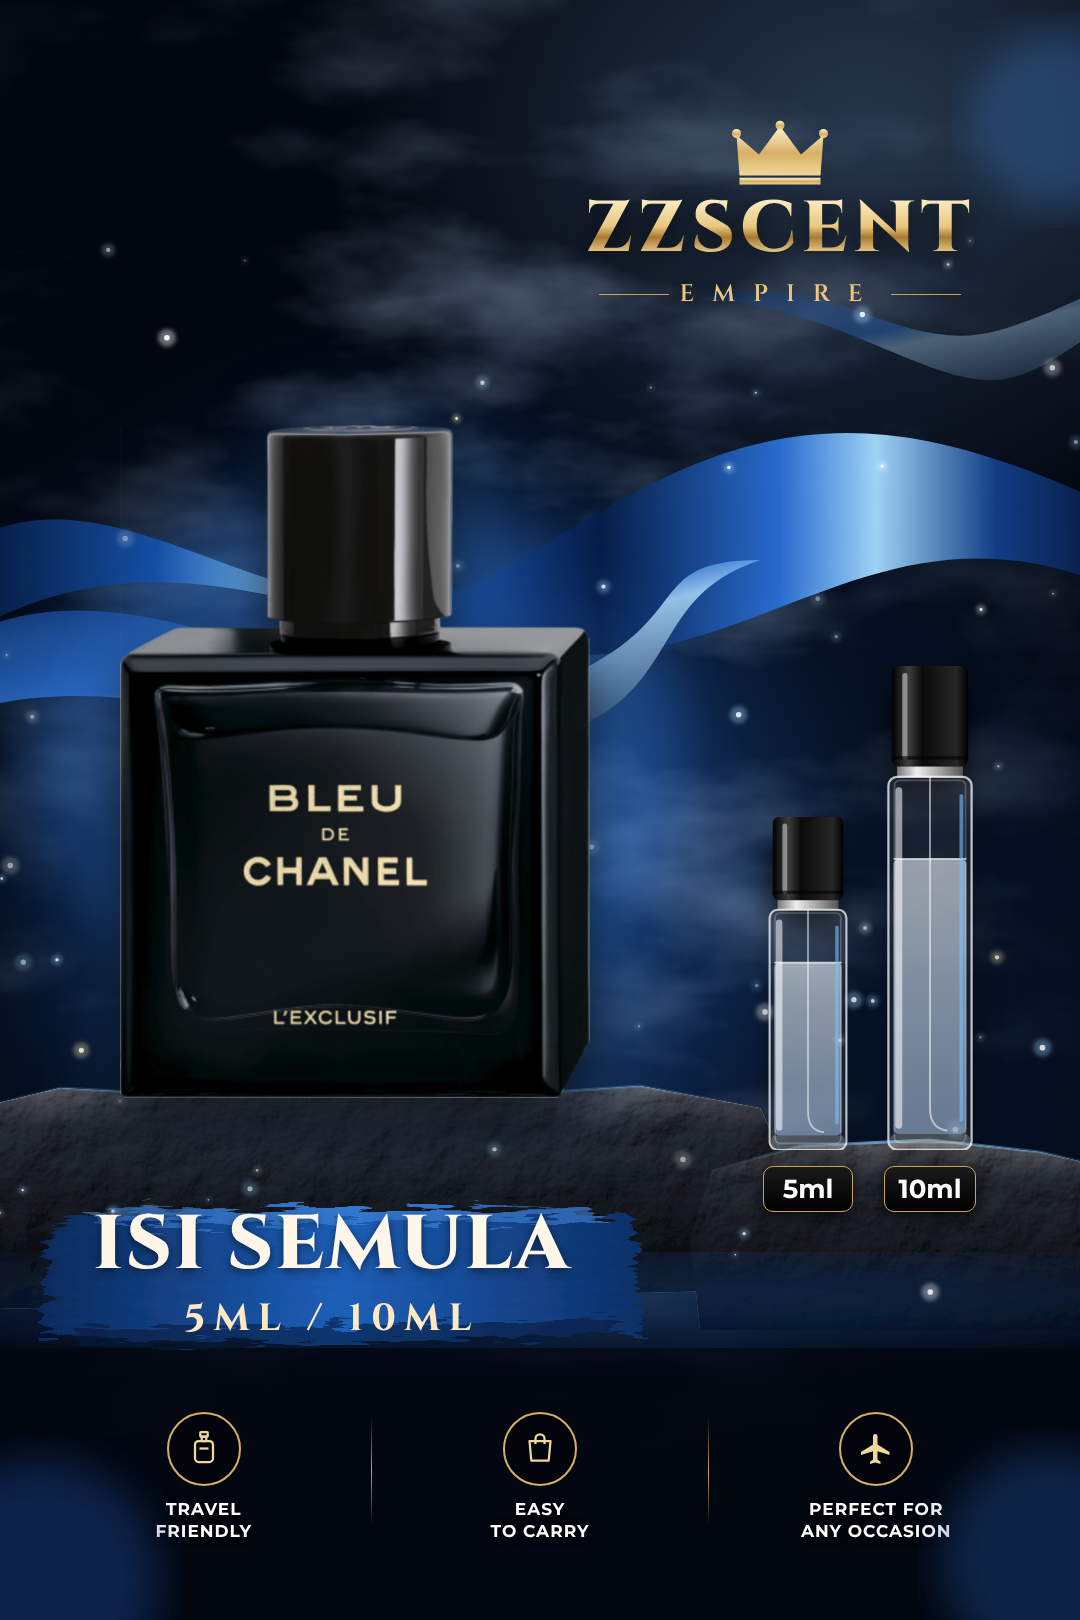
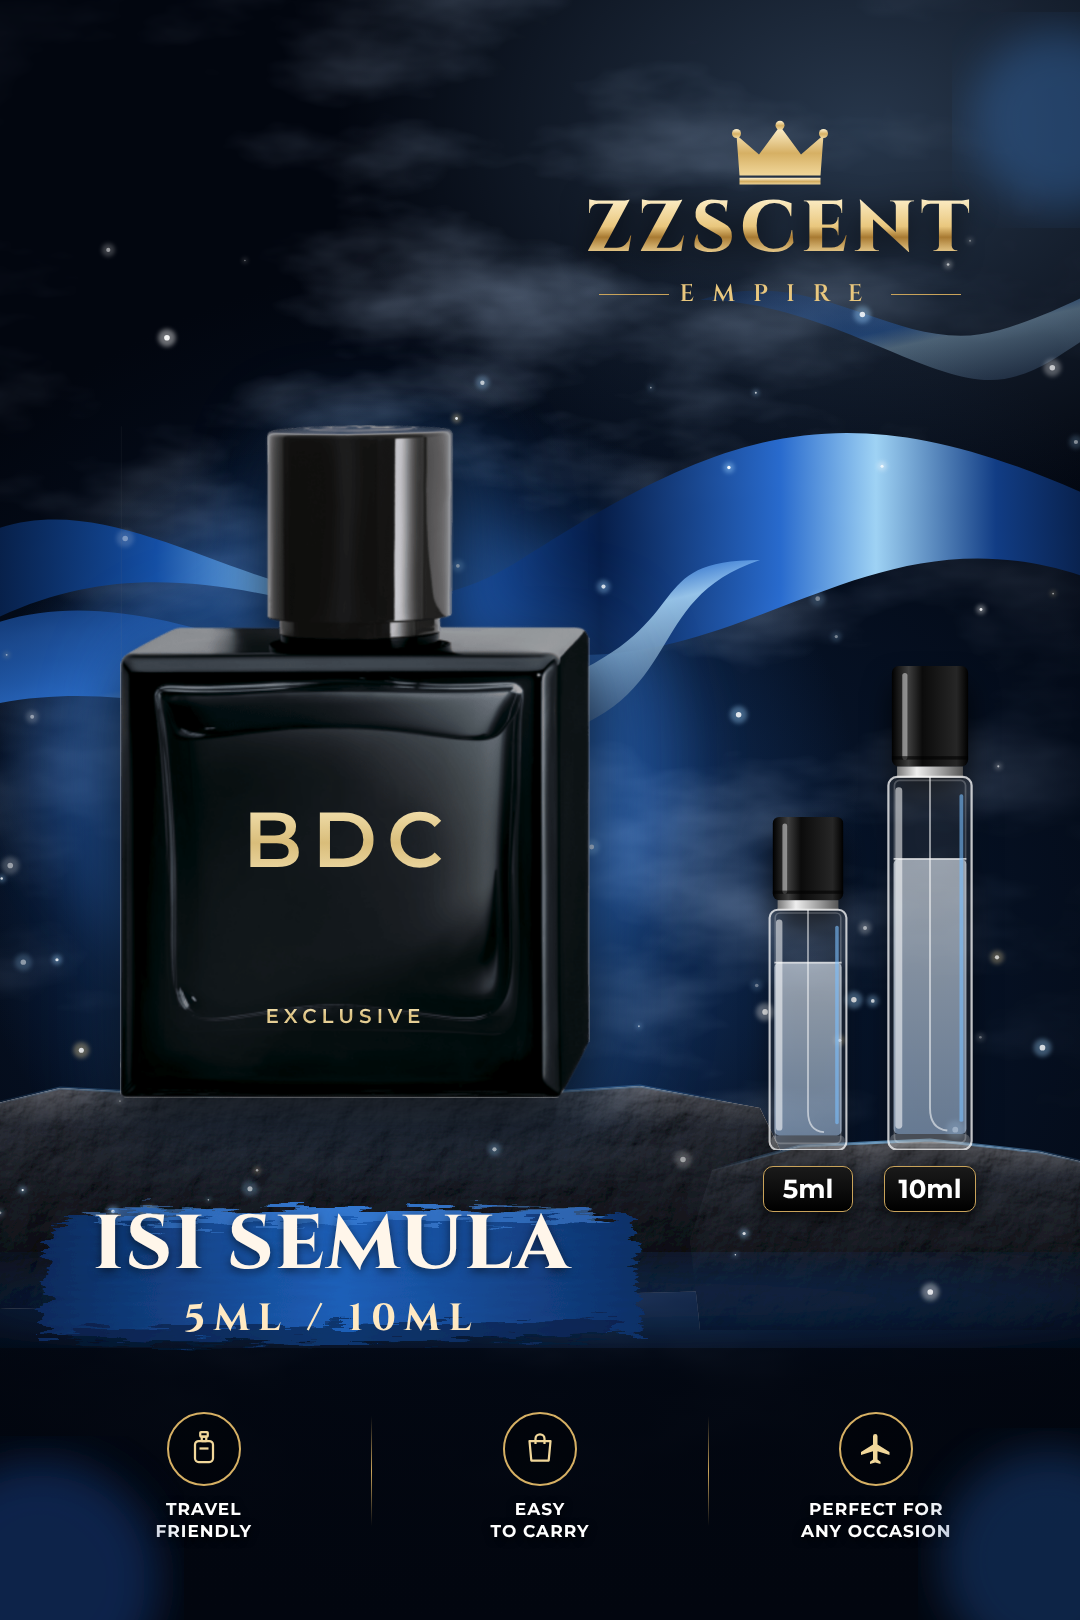
Replace bottle label with BDC EXCLUSIVE on Bleu poster
Claude-Session: https://claude.ai/code/session_01VoUjjXaPnjHweMnR9hiLCZ

Changed region(s): [[0.2139, 0.463, 0.3972, 0.5556], [0.2444, 0.6173, 0.3667, 0.6481]]

diff --git a/poster/bleu-de-chanel.html b/poster/bleu-de-chanel.html
@@ -19,6 +19,8 @@ body{width:1080px;height:1620px;overflow:hidden;position:relative;font-family:Mo
 
 .product{position:absolute;left:120px;top:425px;width:470px;filter:drop-shadow(0 30px 30px rgba(0,0,0,.75)) drop-shadow(18px 0 40px rgba(80,160,255,.25))}
 
+.lbl{position:absolute;left:143px;width:400px;text-align:center;font-family:Montserrat;font-weight:600;line-height:1;
+ background:linear-gradient(180deg,#f7e7b8,#d9bd7a 55%,#efdcaa);-webkit-background-clip:text;background-clip:text;color:transparent}
 .decant{position:absolute;filter:drop-shadow(0 18px 14px rgba(0,0,0,.7))}
 .d5{left:760px;top:817px;width:96px}
 .d10{left:878px;top:666px;width:104px}
@@ -102,7 +104,9 @@ body{width:1080px;height:1620px;overflow:hidden;position:relative;font-family:Mo
 <svg class="layer" id="embers" width="1080" height="1620"></svg>
 
 
-<img class="product" src="bleu.png">
+<img class="product" src="bleu-clean.png">
+<div class="lbl" style="top:800px;font-size:78px;letter-spacing:10px;padding-left:10px">BDC</div>
+<div class="lbl" style="top:1006px;font-size:20px;letter-spacing:5px;padding-left:5px">EXCLUSIVE</div>
 
 <div id="d5" class="decant d5"></div>
 <div id="d10" class="decant d10"></div>
